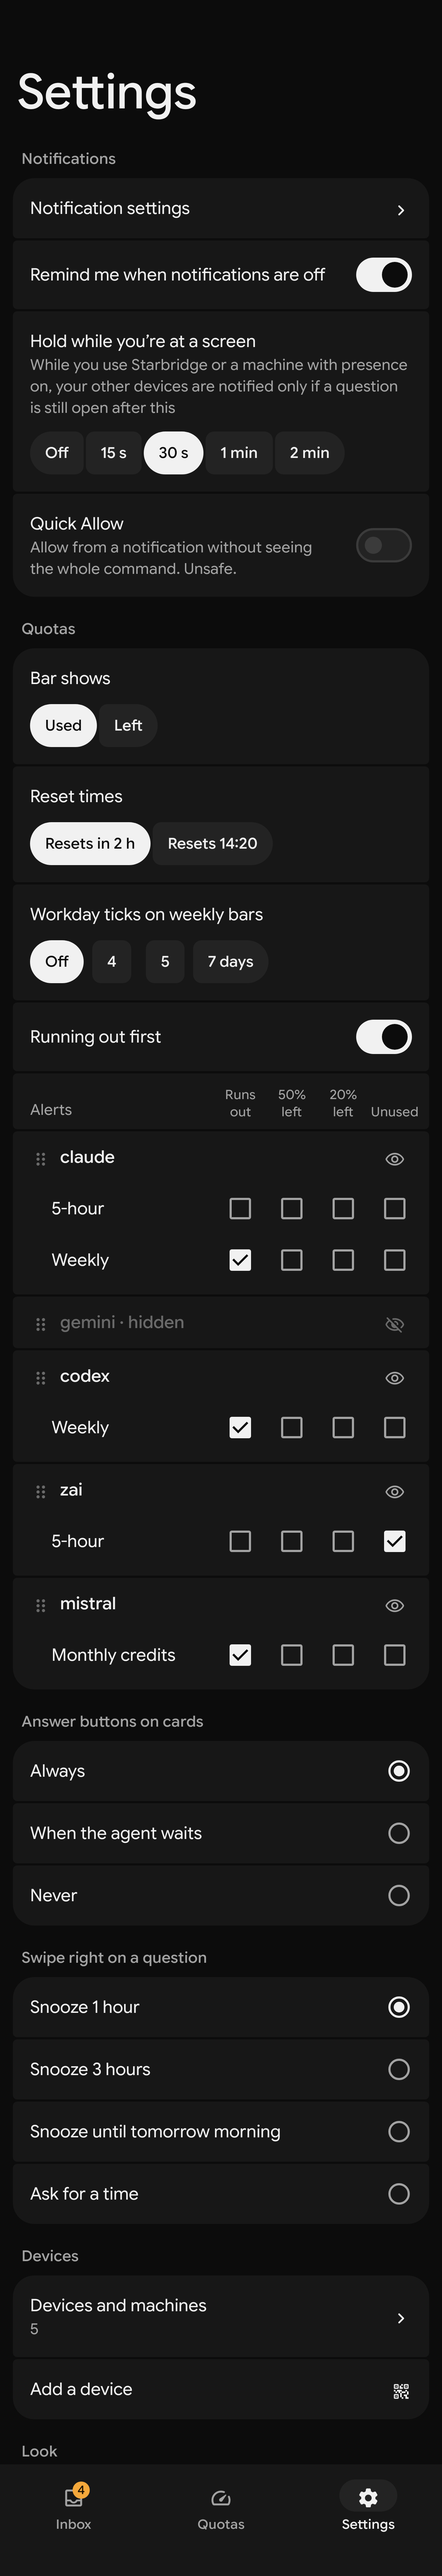
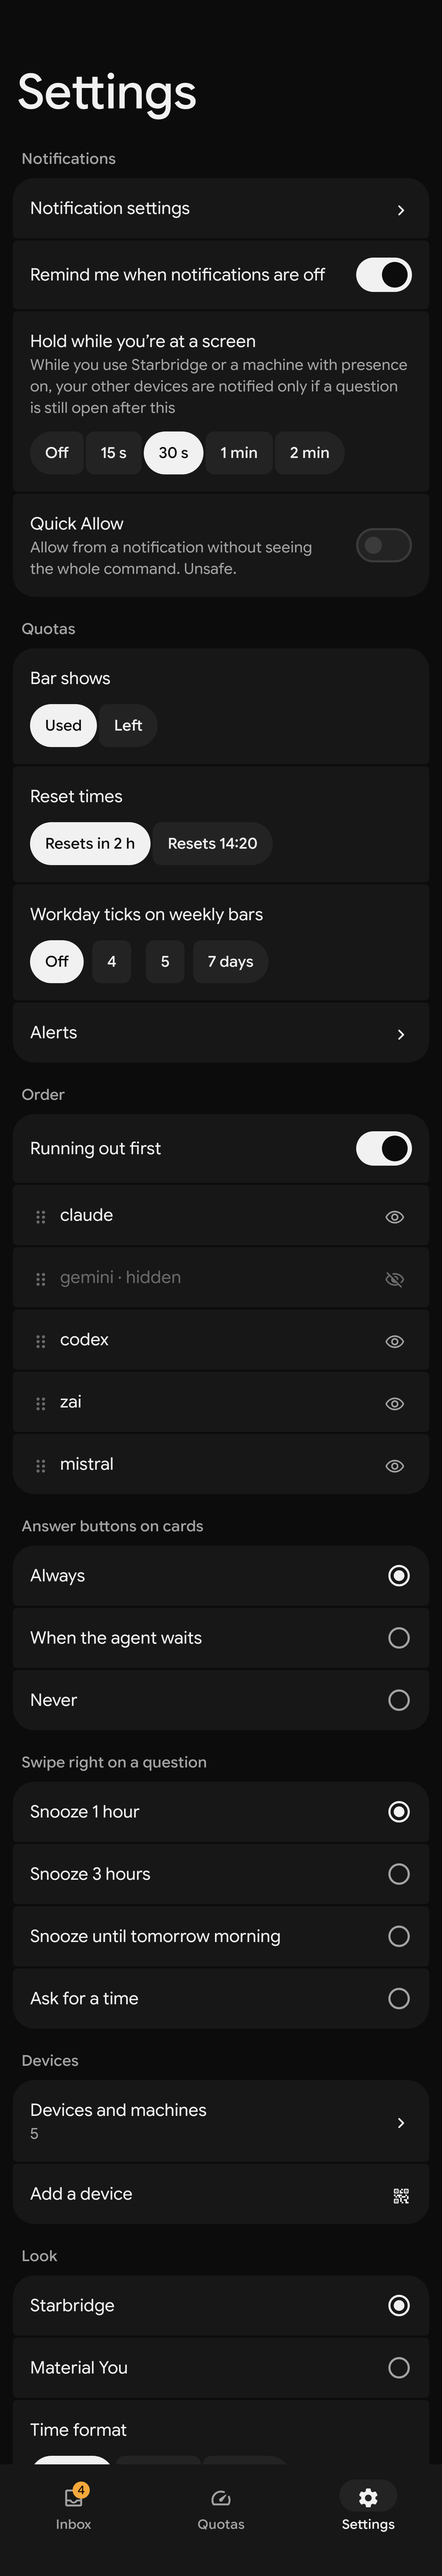
Android: Settings → Quotas puts the alerts a tap away, and groups Running out first with the order (#930)

diff --git a/android/app/src/main/kotlin/dev/starbridge/app/ui/settings/SettingsScreen.kt b/android/app/src/main/kotlin/dev/starbridge/app/ui/settings/SettingsScreen.kt
@@ -22,10 +22,12 @@ import androidx.compose.material3.RadioButton
 import androidx.compose.material3.Surface
 import androidx.compose.material3.Switch
 import androidx.compose.material3.Checkbox
+import androidx.compose.material3.HorizontalDivider
+import androidx.compose.foundation.text.TextAutoSize
+import androidx.compose.ui.unit.sp
 import androidx.compose.material3.IconToggleButton
 import androidx.compose.foundation.layout.Box
 import androidx.compose.foundation.layout.width
-import androidx.compose.ui.text.style.TextAlign
 import androidx.compose.ui.semantics.contentDescription
 import dev.starbridge.app.data.QuotaAlerts
 import androidx.compose.material3.Text
@@ -121,6 +123,7 @@ class SettingsActions(
     val clock: (Clock) -> Unit = {},
     val allowUnseen: (Boolean) -> Unit = {},
     val pushHold: (Int) -> Unit = {},
+    val alerts: () -> Unit = {},
 )
 
 /** Everything this phone keeps for itself, and the account's devices. The settings stay on the phone. */
@@ -175,33 +178,31 @@ fun SettingsScreen(
         }
 
         if (quotas) {
-            // One box (#914): how the bars read, then each provider with its windows' alerts.
+            // How the bars read, with the alerts a tap away (#930); then the order and what shows.
             val providers = quota.providers(windows)
-            val all = windows.map { it.provider to it.windowId }.distinct()
-            val rows = 5 + providers.size
             item { Section("Quotas") }
             item {
-                ChoiceRow(0, rows, "Bar shows") { Segments(listOf(true to "Used", false to "Left"), quota.showUsed) { set(quota.copy(showUsed = it)) } }
+                ChoiceRow(0, 4, "Bar shows") { Segments(listOf(true to "Used", false to "Left"), quota.showUsed) { set(quota.copy(showUsed = it)) } }
             }
             item {
-                ChoiceRow(1, rows, "Reset times") { Segments(listOf(false to "Resets in 2 h", true to "Resets 14:20"), quota.absoluteResets) { set(quota.copy(absoluteResets = it)) } }
+                ChoiceRow(1, 4, "Reset times") { Segments(listOf(false to "Resets in 2 h", true to "Resets 14:20"), quota.absoluteResets) { set(quota.copy(absoluteResets = it)) } }
             }
             item {
-                ChoiceRow(2, rows, "Workday ticks on weekly bars") {
+                ChoiceRow(2, 4, "Workday ticks on weekly bars") {
                     Segments(listOf(null to "Off", 4 to "4", 5 to "5", 7 to "7 days"), quota.workDays) { set(quota.copy(workDays = it)) }
                 }
             }
-            item { SwitchRow(3, rows, "Running out first", quota.runningOutFirst) { set(quota.copy(runningOutFirst = it)) } }
-            item { AlertHeads(4, rows) }
+            item { LinkRow(3, 4, "Alerts", null, Sym.Chevron, actions.alerts) }
+
+            val rows = 1 + providers.size
+            item { Section("Order") }
+            item { SwitchRow(0, rows, "Running out first", quota.runningOutFirst) { set(quota.copy(runningOutFirst = it)) } }
             itemsIndexed(providers, key = { _, p -> "provider/$p" }) { i, p ->
                 ProviderRow(
                     p,
-                    windows.filter { it.provider == p }.distinctBy { it.windowId },
-                    quota.alerts,
                     shown = p !in quota.hidden,
-                    shape = rowShape(5 + i, rows),
+                    shape = rowShape(1 + i, rows),
                     onShow = { on -> set(quota.copy(hidden = if (on) quota.hidden - p else (quota.hidden + p).distinct())) },
-                    onAlerts = { w, picked -> set(quota.copy(alerts = quota.alerts.with(w.provider, w.windowId, all, picked))) },
                     first = i == 0,
                     last = i == providers.lastIndex,
                     onMove = { by ->
@@ -337,41 +338,74 @@ private fun Line(content: @Composable RowScope.() -> Unit) {
 /** The alerts a window can pick, in the table's column order (#914). */
 private val ALERT_COLUMNS = listOf("runs-out" to "Runs out", "low-50" to "50% left", "low-20" to "20% left", "unused-headroom" to "Unused")
 
-/** The columns' names over the table, two short lines each so four fit a phone. */
-private val ALERT_HEADS = listOf("Runs\nout", "50%\nleft", "20%\nleft", "Unused")
+/** The columns' names over the table, a word or two a line so four fit a phone. */
+private val ALERT_HEADS = listOf(listOf("Runs", "out"), listOf("50%", "left"), listOf("20%", "left"), listOf("Unused"))
 
-/** A column of the alerts table: as wide as a checkbox's tap area. */
-private val alertColumn = 48.dp
+/** A column of the alerts table: a checkbox's tap area, and room for "Unused" at a large font. */
+private val alertColumn = 56.dp
 
-/** The alerts table's column names, over the providers. */
+/**
+ * Settings → Alerts (#930): one card, the column names once on top, then a row per window of the
+ * providers shown, a checkbox per alert.
+ */
 @Composable
-private fun AlertHeads(index: Int, count: Int) {
-    Shell(index, count) {
-        Row(Modifier.fillMaxWidth().padding(start = Spacing.s4, end = Spacing.s2, top = Spacing.s3, bottom = Spacing.s2), verticalAlignment = Alignment.Bottom) {
-            Text("Alerts", style = StarbridgeTheme.type.small, color = MaterialTheme.colorScheme.onSurfaceVariant, modifier = Modifier.weight(1f))
-            ALERT_HEADS.forEach { label ->
-                Text(label, style = StarbridgeTheme.type.caption, color = MaterialTheme.colorScheme.onSurfaceVariant, textAlign = TextAlign.Center, modifier = Modifier.width(alertColumn))
+fun AlertsScreen(windows: List<QuotaWindow>, quota: QuotaSettings, onChange: (QuotaSettings) -> Unit, onBack: () -> Unit, modifier: Modifier = Modifier) {
+    val scheme = MaterialTheme.colorScheme
+    val all = windows.map { it.provider to it.windowId }.distinct()
+    val shown = quota.providers(windows).filter { it !in quota.hidden }
+    Page("Alerts", modifier, onBack = onBack) {
+        item {
+            Shell(0, 1) {
+                Column(Modifier.padding(vertical = Spacing.s2)) {
+                    Row(Modifier.fillMaxWidth().padding(start = Spacing.s4, end = Spacing.s2), verticalAlignment = Alignment.Bottom) {
+                        Box(Modifier.weight(1f))
+                        ALERT_HEADS.forEach { lines ->
+                            Column(Modifier.width(alertColumn), horizontalAlignment = Alignment.CenterHorizontally) {
+                                // One line each, shrunk rather than broken inside a word, as the rail's tab labels.
+                                lines.forEach { Text(it, style = StarbridgeTheme.type.caption, color = scheme.onSurfaceVariant, maxLines = 1, autoSize = TextAutoSize.StepBased(minFontSize = 8.sp, maxFontSize = StarbridgeTheme.type.caption.fontSize)) }
+                            }
+                        }
+                    }
+                    if (shown.isEmpty()) Text("No quota windows shown", style = StarbridgeTheme.type.body, color = scheme.onSurfaceVariant, modifier = Modifier.padding(Spacing.s4))
+                    shown.forEachIndexed { i, p ->
+                        if (i > 0) HorizontalDivider(Modifier.padding(horizontal = Spacing.s4), color = scheme.outlineVariant)
+                        windows.filter { it.provider == p }.distinctBy { it.windowId }.forEach { w ->
+                            val picked = quota.alerts.choices(w.provider, w.windowId, w.windowMinutes)
+                            Row(Modifier.fillMaxWidth().padding(start = Spacing.s4, end = Spacing.s2), verticalAlignment = Alignment.CenterVertically) {
+                                Text("${w.provider} ${w.window}", style = StarbridgeTheme.type.body, color = scheme.onSurface, modifier = Modifier.weight(1f))
+                                ALERT_COLUMNS.forEach { (kind, label) ->
+                                    Box(Modifier.width(alertColumn), contentAlignment = Alignment.Center) {
+                                        Checkbox(
+                                            checked = kind in picked,
+                                            onCheckedChange = { on ->
+                                                val next = QuotaAlerts.CHOICES.filter { (it == kind && on) || (it != kind && it in picked) }
+                                                onChange(quota.copy(alerts = quota.alerts.with(w.provider, w.windowId, all, next)))
+                                            },
+                                            modifier = Modifier.semantics { contentDescription = "${w.provider} ${w.window}: $label" },
+                                        )
+                                    }
+                                }
+                            }
+                        }
+                    }
+                }
             }
         }
     }
 }
 
 /**
- * A provider: a handle to drag it up or down (long press), its name, an eye that shows or hides
- * it, and under it each of its windows with a checkbox per alert. A hidden provider folds to its
- * name. Screen readers get "Move up" and "Move down" instead of the drag.
+ * A provider: a handle to drag it up or down (long press), its name, and an eye that shows or
+ * hides it. Screen readers get "Move up" and "Move down" instead of the drag.
  */
 @Composable
 private fun ProviderRow(
     name: String,
-    windows: List<QuotaWindow>,
-    alerts: QuotaAlerts,
     shown: Boolean,
     shape: Shape,
     first: Boolean,
     last: Boolean,
     onShow: (Boolean) -> Unit,
-    onAlerts: (QuotaWindow, List<String>) -> Unit,
     onMove: (Int) -> Unit,
     placement: (dragging: Boolean) -> Modifier,
 ) {
@@ -397,52 +431,35 @@ private fun ProviderRow(
         color = if (dragging) scheme.surfaceContainerHigh else scheme.surfaceContainer,
         shadowElevation = if (dragging) 3.dp else 0.dp,
     ) {
-        Column(Modifier.padding(bottom = if (shown && windows.isNotEmpty()) Spacing.s2 else 0.dp)) {
-            Row(Modifier.fillMaxWidth().padding(start = Spacing.s2, end = Spacing.s2), verticalAlignment = Alignment.CenterVertically) {
-                Symbol(
-                    Sym.Drag,
-                    size = 20.dp,
-                    tint = StarbridgeTheme.colors.fg3,
-                    modifier = Modifier.padding(Spacing.s2).pointerInput(Unit) {
-                        detectDragGesturesAfterLongPress(
-                            onDragStart = { dragging = true },
-                            onDragEnd = { dragging = false; offset = 0f },
-                            onDragCancel = { dragging = false; offset = 0f },
-                        ) { change, drag ->
-                            change.consume()
-                            // A row and its 2 dp gap; past half of it, the provider swaps with its neighbour.
-                            val step = height + groupGap.toPx()
-                            val (top, bottom) = ends
-                            offset = (offset + drag.y).coerceIn(if (top) 0f else -step, if (bottom) 0f else step)
-                            if (offset > step / 2 && !bottom) { move(1); offset -= step }
-                            if (offset < -step / 2 && !top) { move(-1); offset += step }
-                        }
-                    },
-                )
-                Text(
-                    if (shown) name else "$name · hidden",
-                    style = StarbridgeTheme.type.action,
-                    color = if (shown) scheme.onSurface else StarbridgeTheme.colors.fg3,
-                    modifier = Modifier.weight(1f),
-                )
-                IconToggleButton(checked = shown, onCheckedChange = onShow) {
-                    Symbol(if (shown) Sym.Visibility else Sym.VisibilityOff, size = 20.dp, tint = if (shown) scheme.onSurfaceVariant else StarbridgeTheme.colors.fg3, contentDescription = "Show $name")
-                }
-            }
-            if (shown) windows.forEach { w ->
-                val picked = alerts.choices(w.provider, w.windowId, w.windowMinutes)
-                Row(Modifier.fillMaxWidth().padding(start = Spacing.s4 + Spacing.s5, end = Spacing.s2), verticalAlignment = Alignment.CenterVertically) {
-                    Text(w.window, style = StarbridgeTheme.type.body, color = scheme.onSurface, modifier = Modifier.weight(1f))
-                    ALERT_COLUMNS.forEach { (kind, label) ->
-                        Box(Modifier.width(alertColumn), contentAlignment = Alignment.Center) {
-                            Checkbox(
-                                checked = kind in picked,
-                                onCheckedChange = { on -> onAlerts(w, QuotaAlerts.CHOICES.filter { (it == kind && on) || (it != kind && it in picked) }) },
-                                modifier = Modifier.semantics { contentDescription = "$name ${w.window}: $label" },
-                            )
-                        }
+        Row(Modifier.fillMaxWidth().padding(horizontal = Spacing.s2, vertical = Spacing.s1), verticalAlignment = Alignment.CenterVertically) {
+            Symbol(
+                Sym.Drag,
+                size = 20.dp,
+                tint = StarbridgeTheme.colors.fg3,
+                modifier = Modifier.padding(Spacing.s2).pointerInput(Unit) {
+                    detectDragGesturesAfterLongPress(
+                        onDragStart = { dragging = true },
+                        onDragEnd = { dragging = false; offset = 0f },
+                        onDragCancel = { dragging = false; offset = 0f },
+                    ) { change, drag ->
+                        change.consume()
+                        // A row and its 2 dp gap; past half of it, the provider swaps with its neighbour.
+                        val step = height + groupGap.toPx()
+                        val (top, bottom) = ends
+                        offset = (offset + drag.y).coerceIn(if (top) 0f else -step, if (bottom) 0f else step)
+                        if (offset > step / 2 && !bottom) { move(1); offset -= step }
+                        if (offset < -step / 2 && !top) { move(-1); offset += step }
                     }
-                }
+                },
+            )
+            Text(
+                if (shown) name else "$name · hidden",
+                style = StarbridgeTheme.type.body,
+                color = if (shown) scheme.onSurface else StarbridgeTheme.colors.fg3,
+                modifier = Modifier.weight(1f),
+            )
+            IconToggleButton(checked = shown, onCheckedChange = onShow) {
+                Symbol(if (shown) Sym.Visibility else Sym.VisibilityOff, size = 20.dp, tint = if (shown) scheme.onSurfaceVariant else StarbridgeTheme.colors.fg3, contentDescription = "Show $name")
             }
         }
     }

diff --git a/android/app/src/main/kotlin/dev/starbridge/app/ui/Root.kt b/android/app/src/main/kotlin/dev/starbridge/app/ui/Root.kt
@@ -54,6 +54,7 @@ import dev.starbridge.app.data.Phase
 import dev.starbridge.app.data.Run
 import dev.starbridge.app.ui.devices.DevicesScreen
 import dev.starbridge.app.ui.settings.SettingsViewModel
+import dev.starbridge.app.ui.settings.AlertsScreen
 import dev.starbridge.app.ui.settings.SettingsScreen
 import dev.starbridge.app.ui.settings.SettingsActions
 import dev.starbridge.app.ui.devices.AddDeviceScreen
@@ -94,6 +95,7 @@ import java.time.Instant
  */
 @Serializable data class PairLinkKey(val link: String, val at: Long) : NavKey
 @Serializable data object RecoveryKeyKey : NavKey
+@Serializable data object AlertsKey : NavKey
 
 private val Tab.key: NavKey get() = when (this) {
     Tab.Inbox -> InboxKey
@@ -104,7 +106,7 @@ private val Tab.key: NavKey get() = when (this) {
 /** The tab a page belongs to. */
 private fun tabOf(key: NavKey?) = when (key) {
     QuotasKey -> Tab.Quotas
-    SettingsKey, DevicesKey, AddDeviceKey, is PairLinkKey, RecoveryKeyKey -> Tab.Settings
+    SettingsKey, DevicesKey, AddDeviceKey, is PairLinkKey, RecoveryKeyKey, AlertsKey -> Tab.Settings
     else -> Tab.Inbox
 }
 
@@ -374,7 +376,7 @@ fun Main(decisions: List<Decision>, notice: StateFlow<String?>, dismiss: () -> U
                         LaunchedEffect(Unit) { vm.loadPushHold() }
                         SettingsScreen(
                             windows, quota, members.size, colours, push, server,
-                            SettingsActions(vm::setQuota, vm::setColours, vm::setPush, vm::signOut, devices = { backStack.add(DevicesKey) }, addDevice = { backStack.add(AddDeviceKey) }, inbox = vm::setInbox, clock = vm::setClock, allowUnseen = vm::setAllowUnseen, pushHold = vm::setPushHold),
+                            SettingsActions(vm::setQuota, vm::setColours, vm::setPush, vm::signOut, devices = { backStack.add(DevicesKey) }, addDevice = { backStack.add(AddDeviceKey) }, inbox = vm::setInbox, clock = vm::setClock, allowUnseen = vm::setAllowUnseen, pushHold = vm::setPushHold, alerts = { backStack.add(AlertsKey) }),
                             inbox = inbox,
                             clock = clock,
                             allowUnseen = allowUnseen,
@@ -382,6 +384,12 @@ fun Main(decisions: List<Decision>, notice: StateFlow<String?>, dismiss: () -> U
                             pushHold = pushHold,
                             quotas = held,
                         )
+                    }
+                    entry<AlertsKey> {
+                        val vm: SettingsViewModel = hiltViewModel()
+                        val windows by vm.windows.collectAsStateWithLifecycle()
+                        val quota by vm.quota.collectAsStateWithLifecycle()
+                        AlertsScreen(windows, quota, vm::setQuota, onBack = { backStack.removeAt(backStack.lastIndex) })
                     }
                     entry<DevicesKey> {
                         val vm: DevicesViewModel = hiltViewModel()

diff --git a/android/app/src/test/kotlin/dev/starbridge/app/ScreenshotTest.kt b/android/app/src/test/kotlin/dev/starbridge/app/ScreenshotTest.kt
@@ -37,6 +37,7 @@ import dev.starbridge.app.ui.inbox.PromptActions
 import dev.starbridge.app.data.QuotaSettings
 import dev.starbridge.app.data.QuotaAlerts
 import dev.starbridge.app.ui.settings.SettingsActions
+import dev.starbridge.app.ui.settings.AlertsScreen
 import dev.starbridge.app.ui.settings.SettingsScreen
 import dev.starbridge.app.ui.devices.AddDeviceScreen
 import dev.starbridge.app.ui.Tab
@@ -282,6 +283,21 @@ class ScreenshotTest(private val dark: Boolean) {
     @Test fun settings() = capture("settings") {
         Phone(Tab.Settings, 4) {
             SettingsScreen(fake.windows, QuotaSettings(hidden = listOf("gemini"), alerts = QuotaAlerts(windows = mapOf("claude/claude-5h" to emptyList(), "zai/zai-5h" to listOf("unused-headroom")))), fake.members.size, Colours.Starbridge, fake.push, "https://starbridge.run", settingsActions, pushHold = 30)
+        }
+    }
+
+    // Settings → Alerts (#930): the column names once, a row per window of the providers shown.
+    @Test fun settingsAlerts() = capture("settings-alerts") {
+        Phone(Tab.Settings, 4) {
+            AlertsScreen(fake.windows, QuotaSettings(hidden = listOf("gemini"), alerts = QuotaAlerts(windows = mapOf("zai/zai-5h" to listOf("unused-headroom")))), {}, {})
+        }
+    }
+
+    // The same at font scale 1.3, where "Unused" once broke inside the word (#930).
+    @Config(fontScale = 1.3f)
+    @Test fun settingsAlertsLarge() = capture("settings-alerts-large") {
+        Phone(Tab.Settings, 4) {
+            AlertsScreen(fake.windows, QuotaSettings(hidden = listOf("gemini")), {}, {})
         }
     }
 

diff --git a/SPEC.md b/SPEC.md
@@ -901,6 +901,14 @@ notify about nothing, weekly and monthly ones (and those of unknown length) abou
   a few providers. Default rows ("every weekly or monthly window") were dropped too, since few
   people have many providers and they confused the table; the defaults by length stay, unseen,
   for windows nobody set. A window with no box ticked is off.
+- **Android puts the alerts a tap away** (#930). On a phone the one table read badly: Running
+  out first sat alone, the column names floated in a tile of their own, off their checkboxes, and
+  each provider row looked like a second header. So Settings → Quotas ends with Alerts, a page
+  with one card, the column names once over a row per shown window; Order holds Running out first
+  and the providers, each with its handle and eye. Columns are 56 dp, and each line of a column
+  name shrinks rather than breaks inside a word, as the rail's tab labels do: "Unused" broke at
+  font scale 1.3. The owner chose this from mockups over the names repeated in each provider's
+  card; the web keeps the one table.
 - **Filtering on the device.** The uploader still raises every alert, and each device shows the
   ones its settings pick, so the server and the uploader learn nothing of them.
   `packages/protocol/src/quotaAlerts.ts` holds the rule and `quota-alerts.json` its vectors, which
